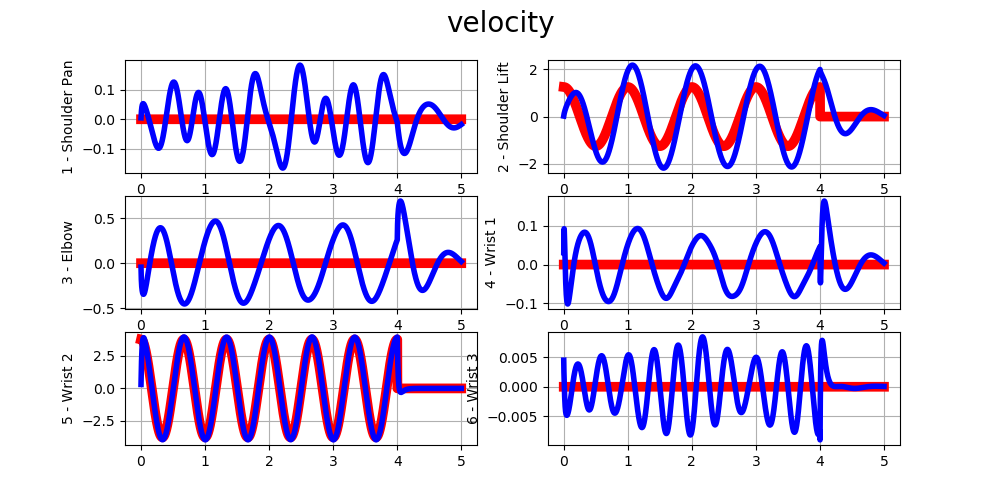
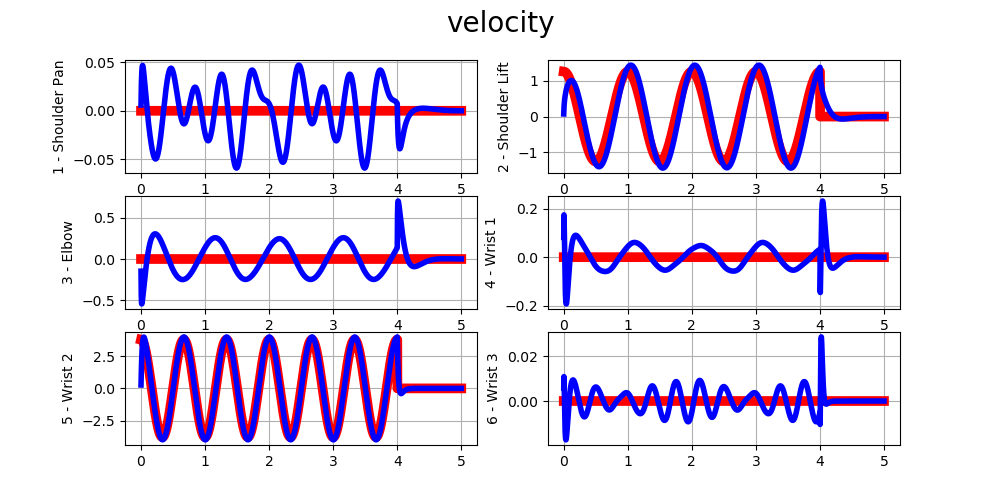
Relatorio2.md

diff --git a/Relatorio 2/README.md b/Relatorio 2/README.md
@@ -72,5 +72,28 @@ Neste ponto, são aumentados os valores de $\bold{K_p}$ para  $600 Nm/rad$, obte
 ![img/fig_1.4.2_position.png](img/fig_1.4.2_position.png)
 
 ## 1.5 - Joint PD control critical damping
-..3+4^2..
+
+Usando a seguinte equação, podemos calcular os valores de amortecimento que levam a um comportamento criticamente amortecido.
+$$ \bold{K_d} = 2\cdot \sqrt{\bold{K_p} \times \bold{M(q)}} $$
+Ainda se mantem o erro de regimen anterior, pois la gravedad ainda está aplicando forças sobre o atuador.
 ![img/fig_1.5_position.png](img/fig_1.5_position.png)
+
+## 1.6 - Joint PD control + Gravity Compensation
+Até o momento temos um controlador PD convencional, agora vai ser acresentado um novo termo $\bold{G(q)}$, que indica qual é a forçã aplicada pela gravidade em cada junta, si colocamos este termo somando, os efeitos da gravidade seráo compensados
+
+$$ \tau = \bold{K_p}\times(\bold{\dot q^d} - \bold{\dot q}) +
+          \bold{K_d}\times(\bold{q^d} - \bold{q}) + \bold{G(q)}$$
+
+Como era esperado o offset que se tinha nos testes passados, sumirám e o acompanhamento da trajetoria é mais acorde na referencia.
+
+![img/fig_1.6_position.png](img/fig_1.6_position.png)
+
+## 1.7 - Joint PD + gravity + Feed-Forward term
+Esperando desacoplar dinámicamente as juntas, para vitar movimentos indesceados, é usado um Feed-Foward $\mathit{ff}$ para compensar os efeitos entre cada uns dos atuadores, permitindo un controle mais simple por cada atuador. O jeito de dar solução é dado pela seguinte equação:
+$$ \tau_{fb} = \bold{K_p}\times(\bold{\dot q^d} - \bold{\dot q}) +
+          \bold{K_d}\times(\bold{q^d} - \bold{q}) $$
+$$ \tau_{ff} = \bold{M(q)} \times (\bold{\ddot{q} + \tau_{fb}})$$
+$$  \tau = \tau_{fb} + \tau_{ff}$$
+
+O resultado é simplesmente satisfatorio, pois foram quase eliminados os efeitos de propagação de movimento por parte das outras juntas.
+![img/fig_1.7_position.png](img/fig_1.7_position.png)
